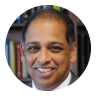
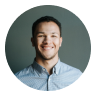
Change name in nav and profile pic

diff --git a/frontend/src/Nav.js b/frontend/src/Nav.js
@@ -24,7 +24,7 @@ export default function Sidenav() {
                     <img src={userphoto} alt="User"/>
                 </div>
                 <header id="sideNavBarHeader">
-                    Neville Pinto
+                    Ben Bearcat
                     <img src={chevrondown} alt="Options"/>
                 </header>
                 <Link to="/home">
